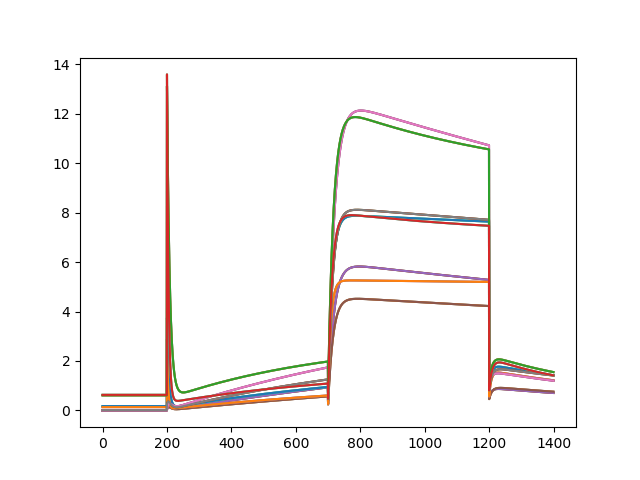
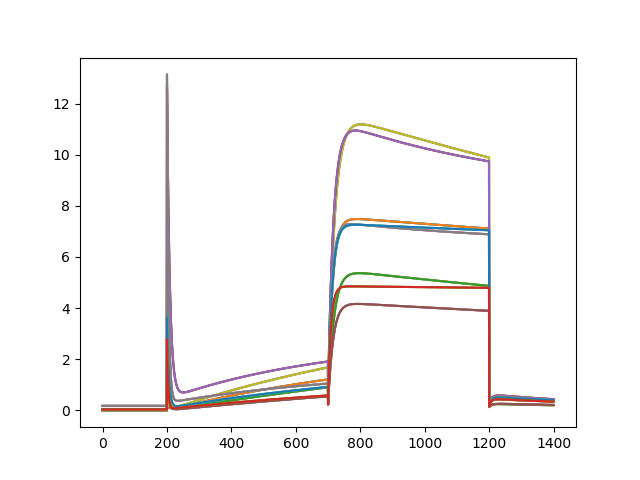
Debug; continue from previous simulation

diff --git a/lib/model.py b/lib/model.py
@@ -103,7 +103,7 @@ class Model(pints.ForwardModel):
         self.transform = transform
         self.default_init_state = self.simulation1.state()
         self.init_state = self.default_init_state
-        self.continue_simulate(False)
+        self.set_continue_simulate(False)
 
     def n_parameters(self):
         # n_parameters() method for Pints
@@ -115,7 +115,7 @@ class Model(pints.ForwardModel):
     def current_state(self):
         return self.simulation2.state()
 
-    def continue_simulate(self, v=False):
+    def set_continue_simulate(self, v=False):
         self._continue_simulate = v
         
     def set_voltage_protocol(self, p, prt_mask=None):
@@ -162,7 +162,11 @@ class Model(pints.ForwardModel):
         if not self._continue_simulate:
             self.simulation1.reset()
             self.simulation1.set_state(self.init_state)
-            self.simulation1.pre(100e3)
+            try:
+                self.simulation1.pre(100e3)
+            except (myokit.SimulationError, myokit.SimulationCancelledError):
+                # return float('inf')
+                return np.full(times.shape, float('inf'))
             self.simulation2.set_state(self.simulation1.state())
         
         if read_log is None:

diff --git a/lib/score_bruteforce.py b/lib/score_bruteforce.py
@@ -41,6 +41,7 @@ class MaxParamDiffScore(pints.ErrorMeasure):
         self.set_voltage(None)
         self.set_duration(None)
         self.set_init_state(None)
+        self.set_continue_simulate(False)
 
     def n_parameters(self):
         return self._n_working_parameters
@@ -68,6 +69,9 @@ class MaxParamDiffScore(pints.ErrorMeasure):
 
     def set_init_state(self, v=None):
         self._set_init_state = v
+
+    def set_continue_simulate(self, v=False):
+        self._continue_simulate = v
 
     def __call__(self, param, get_state=False, debug=False):
 
@@ -99,6 +103,7 @@ class MaxParamDiffScore(pints.ErrorMeasure):
         for i, p in enumerate(self._parameter_samples):
             if self._set_init_state is not None:
                 self._model.set_init_state(self._set_init_state[i])
+                self._model.set_continue_simulate(self._continue_simulate)
             sims.append(self._model.simulate(p, times))
             if get_state:
                 states.append(self._model.current_state())

diff --git a/optimise-bruteforce/optimise.py b/optimise-bruteforce/optimise.py
@@ -99,6 +99,7 @@ score = s.MaxParamDiffScore(model,
         parameter_samples=tested_parameter_samples,
         )
 score.set_init_state(None)
+score.set_continue_simulate(False)
 
 x0 = [-80, 200, 20, 500, -40, 500]  # a pharma like protocol
 
@@ -118,6 +119,11 @@ for i_set in range(15): # TODO
     if i_set > 0:
         # Continue from previous simulation
         score.set_init_state(current_states)
+        score.set_continue_simulate(False)
+    else:
+        # Start from steady state
+        score.set_init_state(None)
+        score.set_continue_simulate(False)
 
     if i_set % 2:
         
@@ -154,7 +160,8 @@ for i_set in range(15): # TODO
             boundaries=boundaries,
             method=pints.XNES)
     opt.set_max_iterations(None)
-    opt.set_parallel(True)
+    # opt.set_parallel(True)
+    opt.set_parallel(8)
 
     # Run optimisation
     try:
